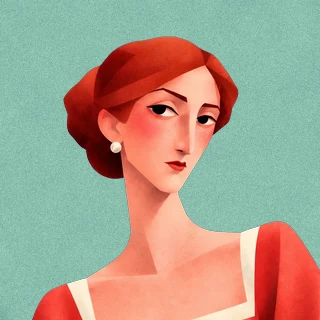
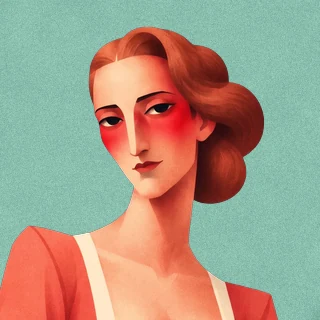
Art: new Dorabella from the Figma file (portrait and face as placed there; the old flip is gone)
Claude-Session: https://claude.ai/code/session_01J9nR1BmP9TjDnKqecdbpyd

diff --git a/src/standalone/opera-extra.ts b/src/standalone/opera-extra.ts
@@ -24,7 +24,7 @@ const PORTRAIT_ALT: Record<string, string> = {
   "giovanni:elvira": "Donna Elvira in deep red, auburn hair pinned up, a hand at her heart.",
   "giovanni:zerlina": "Zerlina in a green bodice and white blouse, brown hair tied back, a hand at her chin.",
   "cosi:fiordiligi": "Fiordiligi in a teal bodice with white sleeves, dark hair pinned with pearls, a letter at her heart.",
-  "cosi:dorabella": "Dorabella in a red dress with white sleeves, red hair pinned up, holding a white fan.",
+  "cosi:dorabella": "Dorabella in a coral-red dress with white sleeves, auburn hair in soft waves, a folded fan in her hands.",
   "cosi:ferrando": "Ferrando in a gold-striped coat with a white jabot, dark hair, a hand at his chest.",
   "cosi:guglielmo": "Guglielmo in a dark teal coat with a white jabot, dark hair and a moustache, one hand open.",
   "cosi:alfonso": "Don Alfonso in a black coat and white shirt, grey hair, a hand at his collar.",
